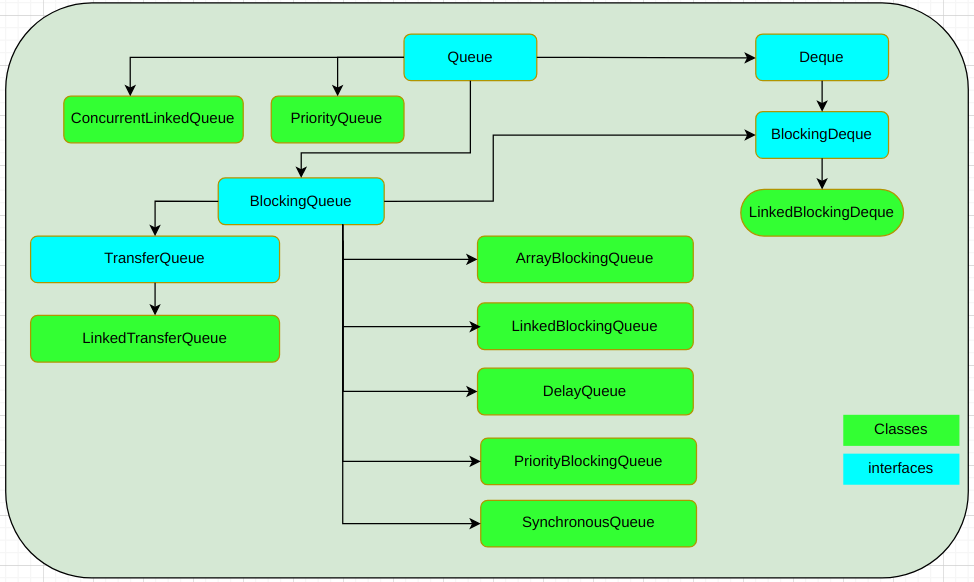
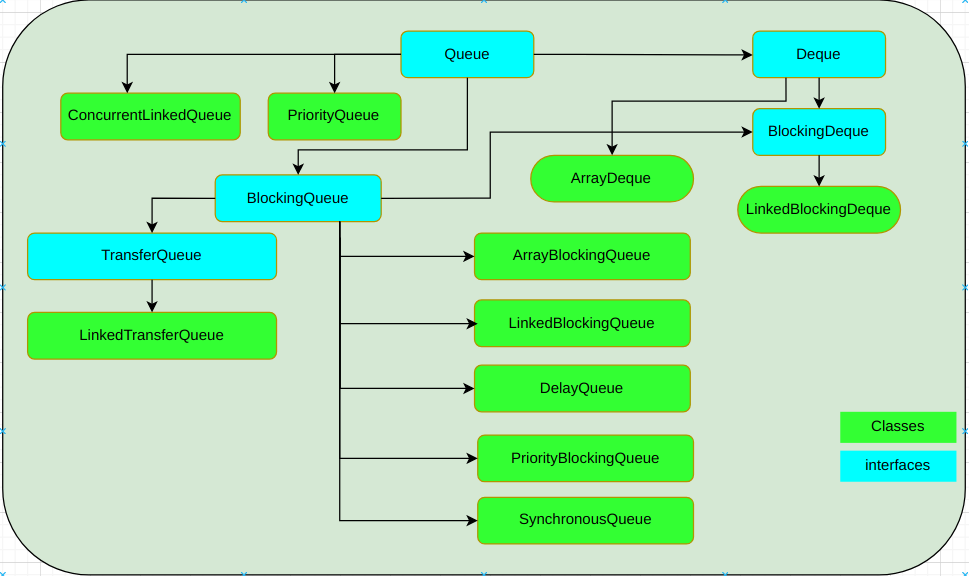
Updated all queues

diff --git a/collections/README.md b/collections/README.md
@@ -34,11 +34,14 @@
    6.4 [ConcurrentSkipListSet](#concurrentskiplistset) </br>
 
 7. [Queue Implementations](#queue-implementations) </br>
-   7.1 []() </br>
-   7.2 []() </br>
-   7.3 []() </br>
-   7.4 []() </br>
-   7.5 []() </br>
+   7.1 [PriorityQueue](#priorityqueue) </br>
+   7.2 [ConcurrentLinkedQueue](#concurrentlinkedqueue) </br>
+   7.3 [ArrayBlockingQueue](#arrayblockingqueue) </br>
+   7.4 [LinkedBlockingQueue](#linkedblockingqueue) </br>
+   7.5 [DelayQueue](#delayqueue) </br>
+   7.6 [PriorityBlockingQueue](#priorityblockingqueue) </br>
+   7.7 [LinkedTransferQueue](#linkedtransferqueue) </br>
+   7.8 [ArrayDeque](#arraydeque) </br>
 
 8. [Map Implementations](#map-implementations) </br>
    8.1 [HashMap](#hashmap) </br>
@@ -53,6 +56,7 @@
 9. [Strong vs. Soft vs. Weak References](#strong-vs-soft-vs-weak-references) </br>
 10. [Unmodifiable vs. Immutable](#unmodifiable-vs-immutable) </br>
 11. [Hashing & hashCode()](#hashing) </br>
+12. [Unbounded and bounded queues](#unbounded-and-bounded-blocking-queues) </br>
 
 ## **Overview**
 
@@ -423,13 +427,16 @@ Though **ArrayList** is faster than **LinkedList**, ***CopyOnWriteArrayList*** i
 - Queues is **ordered**. typically (not necessarily) it order elements in **First-In-First-Out (FIFO)** manner. However **exceptions** are **priority queues** (*orders according to comparator or natural order*), Last-In-First-Out (**LIFO**) **queues** (or **stacks**).
 - It does not allow **NULL** elements. But LinkedList allows though it is a duque.
 - insert new element : `offer()`, remove an element : `poll()`, inspect the element at front of queue (without removing it) : `peek()`.
-- Queue is implemented by four sub-interfaces BlockingQueue, TransferQueue, Deque, BlockingDeque.
-- thread-safe queues are **ConcurrentLinkedQueue, ArrayBlockingQueue and ConcurrentLinkedDeque**.
+- Queue is implemented by four sub-interfaces *BlockingQueue, TransferQueue, Deque, BlockingDeque*.
+- **thread-safe** queues are **ConcurrentLinkedQueue, ArrayBlockingQueue and ConcurrentLinkedDeque**.
 - Some Queue implementations in java.util.concurrent are **bounded queues** (restrict the number of elements that it holds), but the implementations in java.util are not.
-- **Blocking queues** support additional operations that force threads wait for the queue depending on current state. A thread may wait on the Queue to be non-empty when attempting a retrieval, or for it to become empty when adding a new element.
+- **Blocking queues** support additional operations that force threads wait for the queue depending on current state. A thread may wait on the Queue to be non-empty when attempting a retrieval, or for it to become empty when adding a new element. It offers a simple thread-safe mechanism. In this queue, threads need to wait for the queue's availability. The producers will wait for available capacity before adding elements, while consumers will wait until the queue is empty. In those cases, the non-blocking queue will either throw an exception or return a special value, like null or false. To achieve this blocking mechanism, the BlockingQueue interface exposes two functions on top of the normal Queue functions: put and take. Those functions are the equivalent of add and remove in a standard Queue.
 - **Transfer queues** designed toward producer-consumer pattern. It controls the flow of information from producer to consumer, creating **backpressure** in the system.
 - **Deque** is **Double-Ended-Queue**, its elements may be taken from both the start and end of the queue. Deque provides methods (such as offer(), poll(), peek()) to operate at both **the top and bottom**.
 - The **Deque** is a richer abstract data type (ADT) than both Stack and Queue because it implements both stacks and queues at the same time, that it can be used both as last-in-first-out (LIFO) stacks and first-in-first-out (FIFO) queues. It provides methods to support both.
+- **Priority queues** are ordered based on their natural ordering, or by a defined Comparator provided when we construct the PriorityQueue.
+
+BlockingQueue 
 
 **Concrete implementations of Queue interface**
 
@@ -459,6 +466,111 @@ Though **ArrayList** is faster than **LinkedList**, ***CopyOnWriteArrayList*** i
 - LinkedBlockingDeque
 
 <img src="https://github.com/srikanthkakumanu/DSA/blob/main/collections/queue_implementations.png" alt="Java Queue Implementations Hierarchy" width="500" height="300"></img> </br>
+
+#### **PriorityQueue**
+
+<HR>
+
+</br> [Table Of Contents](#table-of-contents) </br>
+
+- It is used when the objects are supposed to be processed based on priority unlike standard Queue which follows FIFO algorithm. It is based on the **priority heap**. The elements of the priority queue are ordered according to the **natural ordering**, or by a Comparator provided at queue construction time, depending on which constructor is used.
+- Priority queues are **unbounded** queues.
+- It stores unique values, duplicates are not allowed. We can’t create PriorityQueue of Objects that are *non-comparable*.
+- It does not allow **NULL element**.
+- It is **not thread-safe i.e. NOT synchronized**. Hence Java provides *PriorityBlockingQueue* to use in multi-threaded environment.
+
+#### **ConcurrentLinkedQueue**
+
+<HR>
+
+</br> [Table Of Contents](#table-of-contents) </br>
+
+- It was added in Java 5 along with other concurrent utilities like CyclicBarrier, CountDownLatch, Semaphore, ConcurrentHashMap etc. It is an **unbounded, thread-safe and non-blocking queue**.
+- It is a **lock-free** queue. It's locking based on **Michael & Scott algorithm for non-blocking, lock-free nodes**. It uses CAS (Compare-And-Swap) for its operations.
+- It is an appropriate choice when many threads will share access to a common collection. Note that it **doesn't block operations** (*It does not block the accessing thread when the queue is empty and returns null*) as it is done in blocking queues (ArrayBlockingQueue, LinkedBlockingQueue etc). So there are no put(), take() methods which will wait if required.
+- It stores elements as **linked nodes**. It **orders** elements in **FIFO** order.
+- Concurrent linked queue is **unbounded**.
+- It stores unique values, duplicates are not allowed. We can’t create PriorityQueue of Objects that are *non-comparable*.
+- It does not allow **NULL element**.
+- It is **thread-safe i.e. synchronized**.
+- It's iterators (*Iterator* and *ListIterator*) are not *fail-fast*.
+
+#### **ArrayBlockingQueue**
+
+<HR>
+
+</br> [Table Of Contents](#table-of-contents) </br>
+
+- It is a **bounded blocking queue backed by an array**. Once created, the **capacity cannot be changed**. Attempts to put an element into a full queue will result in the operation blocking. Similarly attempts to take an element from an empty queue will also be blocked.
+- It is generally used in a thread-safe environment where you want to block two or more operating on a single resource, allowing only one thread. Also, we can block a thread using the capacity bounding factor.
+- It's ordering **not guaranteed**.
+- It does not allow **NULL element**.
+- It is **thread-safe i.e. synchronized**.
+- It's iterators (*Iterator* and *ListIterator*) are not *fail-fast*.
+
+#### **LinkedBlockingQueue**
+
+<HR>
+
+</br> [Table Of Contents](#table-of-contents) </br>
+
+- It is **optionally-bounded blocking queue based on linked nodes**. Optionally-bounded meaning that the queue size can be specified if needed.
+- Linked queues typically have **higher throughput** than array-based queues but **less predictable performance** in most concurrent applications.
+- It is a **lock-based** queue. It's locking based on **two-lock queue algorithm**. It uses two different locks – the putLock and the takeLock. The put/take operations uses the first lock type, and the take/poll operations use the other lock type.
+- It is **FIFO ordered**.
+- It does not allow **NULL element**.
+- It is **thread-safe i.e. synchronized**. Since it is blocking queue, it blocks the accessing threads when queue is empty.
+- The blocking feature of the LinkedBlockingQueue is associated with some cost. This cost is because every put or the take operation is lock contended between the producer or the consumer threads. Therefore, in scenarios with many producers and consumers, put and take actions could be slower.
+- **LinkedBlockingQueue needs to allocate and deallocate nodes every time an item is added or removed from the queue**. For this reason, **an ArrayBlockingQueue can be a better alternative if the queue grows fast and shrinks fast**.
+
+#### **DelayQueue**
+
+<HR>
+
+</br> [Table Of Contents](#table-of-contents) </br>
+
+- It is a **blocking queue** that could be used in **bounded-buffer/producer-consumer** programs. When the consumer wants to take an element from the queue, they can take it only when the delay for that particular element has expired. We use a DelayQueue when a **consumer can only take an expired item**.
+- It is an **unbounded blocking queue** of *Delayed* elements.
+- Each element we want to put in DelayQueue needs to implement the *Delayed* interface.
+- It does not allow **NULL elements**.
+- It is **thread-safe i.e. synchronized**.
+
+#### **PriorityBlockingQueue**
+
+<HR>
+
+</br> [Table Of Contents](#table-of-contents) </br>
+
+- It is an **unbounded blocking queue** that uses the same ordering rules as class PriorityQueue and supplies blocking retrieval operations. **Its elements are ordered by priority.**
+- Elements that are needed to add must implement either *Comparable* or provide a *Comparator* instead.
+- Higher priority element is always ordered first and when we remove an element from our queue, it will always be the one with the highest priority.
+- It does not allow **NULL elements**.
+- It is **thread-safe i.e. synchronized**.
+  
+#### **LinkedTransferQueue**
+
+<HR>
+
+</br> [Table Of Contents](#table-of-contents) </br>
+
+- It allows us to create programs according to the producer-consumer pattern, and coordinate messages passing from producers to consumers.
+- It gives us the new ability to implement a form of backpressure. This means that, when the producer sends a message to the consumer using the transfer() method, the producer will stay blocked until the message is consumed.
+- It can be very useful when we do not want an over-producing producer that will flood the queue with messages, resulting in the OutOfMemory errors. In such design, the consumer will be dictating the speed at which the producer will produce messages.
+- It **allows a producer to wait for the consumption of an item**. By implementing a simple backpressure algorithm using this queue. Indeed, by blocking producers until consumption, **consumers can drive the flow of messages produced**.
+
+#### **ArrayDeque**
+
+<HR>
+
+</br> [Table Of Contents](#table-of-contents) </br>
+
+- It is known as **Array double ended queue or Array Deck**. It is a special kind of a growable array that allows us to add or remove an element from both sides. It automatically doubles the size of an array when head and tail pointer meets each other while adding an element.
+- It is backed by an array which doubles its size when it gets filled.
+- It's implemented as a double-ended queue where it maintains two pointers namely a head and a tail.
+- It does not allow **NULL elements**.
+- It is **not thread-safe i.e. not synchronized**.
+- It is significantly faster than the synchronized Stack. It is faster queue than LinkedList due to the better locality of reference. Most operations have amortized constant time complexity.
+- It's iterators are *fail-fast*.
 
 ### **Map Implementations**
 
@@ -702,5 +814,21 @@ IntelliJ, Eclipse also uses 31 in their hashcode generation code snippets.
 java.util.Objects.hash() can also be used to generate hash code. Objects class introduced in Java 7. Lombok, Apache-commons HashcodeBuilder are also used to generate hashcode implementation. If we don't override hashCode(), HashMap and HashSet uses *system generated hash code*.
 
 **Hash collision:** Hash collision happens when two or more objects might have the same hash code even if they're unequal. Hash collision strategies are separate chaining, open addressing (linear probing, quadratic probing), double hashing.
+
+### **Unbounded and bounded Blocking Queues**
+
+<HR>
+
+</br> [Table Of Contents](#table-of-contents) </br>
+
+We can distinguish two types of BlockingQueue:
+
+**unbounded queue**:
+
+It can grow almost indefinitely. The Capacity of blockingQueue will be set to Integer.MAX_VALUE. All operations that add an element to the unbounded queue will never block, thus it could grow to a very large size. The most important thing when designing a producer-consumer program using unbounded BlockingQueue is that consumers should be able to consume messages as quickly as producers are adding messages to the queue. Otherwise, the memory could fill up and we would get an OutOfMemory exception.
+
+**bounded queue**:
+
+It grows with maximal capacity defined. We can create such queues by passing the capacity as an argument to a constructor. Using bounded queue is a good way to design concurrent programs because when we insert an element to an already full queue, that operations need to wait until consumers catch up and make some space available in the queue. It gives us throttling without any effort on our part.
 
 </div>
